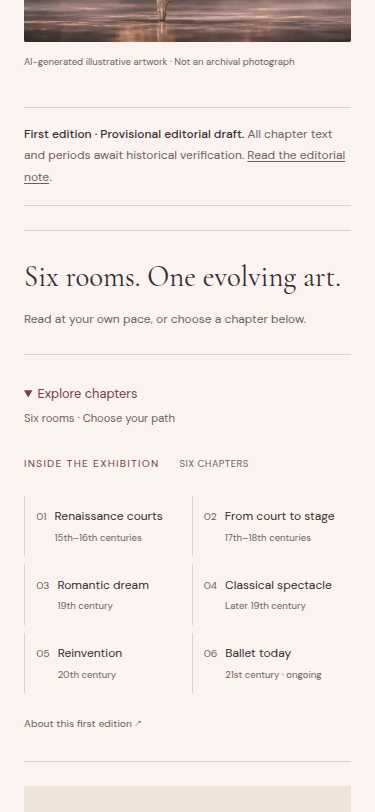
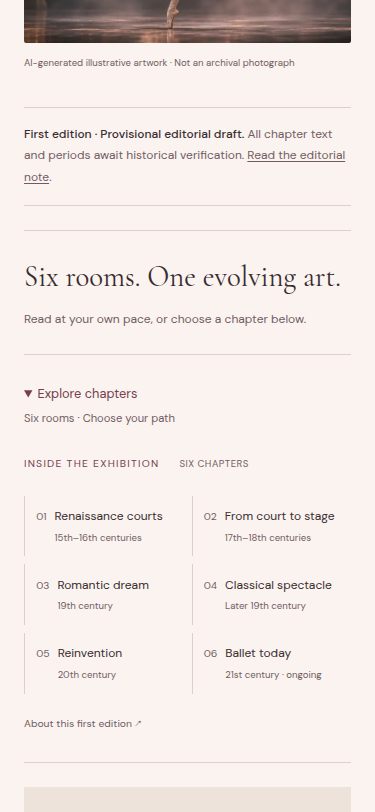
Remove Ballet arch background cap and fit original artwork

Changed region(s): [[0.0587, 0.0, 0.9387, 0.0924]]

diff --git a/src/app/ballet/ballet.css b/src/app/ballet/ballet.css
@@ -25,8 +25,8 @@
 .ballet-beginLink { margin-top: 1.2rem; }
 
 .ballet-heroFigure { margin: 0; min-width: 0; }
-.ballet-heroImage { position: relative; height: clamp(30rem, 48vw, 46rem); background: linear-gradient(110deg, #66564f, #a28f88); border-radius: 48% 48% 2px 2px; overflow: hidden; }
-.ballet-heroImage img { position: absolute; top: 12%; left: 0; width: 100%; height: 88%; object-fit: cover; object-position: center; }
+.ballet-heroImage { position: relative; height: auto; aspect-ratio: 8 / 5; border-radius: 50% 50% 2px 2px / 24% 24% 2px 2px; overflow: hidden; }
+.ballet-heroImage img { position: absolute; inset: 0; width: 100%; height: 100%; object-fit: cover; object-position: center; }
 .ballet-heroFigure figcaption { font-size: .63rem; color: var(--muted); line-height: 1.7; padding: .75rem 0; text-align: right; }
 .ballet-threshold { margin: 3rem 3rem 0; padding: 2rem 0; border-block: 1px solid var(--rule); display: flex; align-items: baseline; justify-content: space-between; gap: 1rem; }
 .ballet-threshold p { font-family: var(--font-display), Georgia, serif; font-size: 1.8rem; margin: 0; }
@@ -86,7 +86,6 @@
   .ballet-hero { grid-template-columns: 1fr 1fr; gap: 1.5rem; padding: 2rem 1.5rem 0; }
   .ballet-heroCopy { padding: 1rem 0; }
   .ballet-hero h1 { font-size: clamp(3.25rem, 7vw, 5rem); }
-  .ballet-heroImage { height: auto; aspect-ratio: 1 / 1.05; }
   .ballet-threshold { margin: 2rem 1.5rem 0; }
   .ballet-storyLayout { display: block; padding-inline: 1.5rem; }
   .ballet-chapterNav { position: static; padding-bottom: 1.5rem; }
@@ -111,7 +110,6 @@
   .ballet-heroDescription { max-width: 27rem; }
   .ballet-beginLink { margin-top: .5rem; }
 
-  .ballet-heroImage { height: auto; aspect-ratio: 1 / 1.05; }
   .ballet-heroFigure figcaption { font-size: .6rem; text-align: left; }
   .ballet-threshold { display: block; padding-block: 1.5rem; margin-top: 1.5rem; }
   .ballet-threshold p { margin-bottom: .5rem; }

diff --git a/docs/review/ballet-phase-1/README.md b/docs/review/ballet-phase-1/README.md
@@ -61,6 +61,10 @@ Addressed both owner feedback notes on PR #2 within Phase 1:
 - Rooms 2 and 6 use a paired entrance/story layout on wide desktops. Both stay to the right of the rail, with the same bounded reading width. Smaller screens return to a comfortable vertical flow.
 - Moved the desktop rail 24px farther left and increased its gap to the chapter column by 24px at 1440px. The chapter column stays in its original position; mobile gutters remain 24px.
 - Reduced mobile hero spacing without reducing the readable text sizes. Updated mobile screenshots show the resulting opening rhythm.
-- Preserved the arched frame and existing image. The source contains both hands and feet but lacks enough overhead margin for the original full-bleed dome crop. The revised frame reserves a narrow, explicitly decorative gradient cap above the illustration (12% headroom), then fits the photograph-like illustration below it. This is CSS framing, not generated or reconstructed historical content. Both hands and feet remain visible in the inspected 1440px and 375px screenshots; the cap's appearance remains an owner visual decision.
+- Preserved the existing artwork and an arched frame. Following the owner's correction, removed the decorative cap and its 12% headroom. The frame now uses a wider 8:5 proportion and a shallower arch, with the original illustration filling it edge to edge. Both hands and feet remain visible; no extra background or source-image edits were added.
 
 Re-ran lint, TypeScript and production build successfully. Repeated 320/375/768/1440px, short-viewport, reduced-motion, focus/anchor and reflow checks. Source-image extremity coordinates were checked against the rendered arched clip at all four widths. The mobile index opens via keyboard; anchors move focus and update active location. All six links also work in the native disclosure with JavaScript disabled. No page errors or horizontal overflow. Updated screenshots replace the previous review captures.
+
+### Arch background correction
+
+Removed the unwanted decorative background after owner screenshot review. Only `src/app/ballet/ballet.css`, these review notes, and refreshed screenshots changed. Lint, TypeScript, production build and browser checks passed again, including full-pose geometry at 320/375/768/1440px. The wider, shallower arch is visible in the refreshed desktop and mobile pose screenshots and awaits owner visual review.
